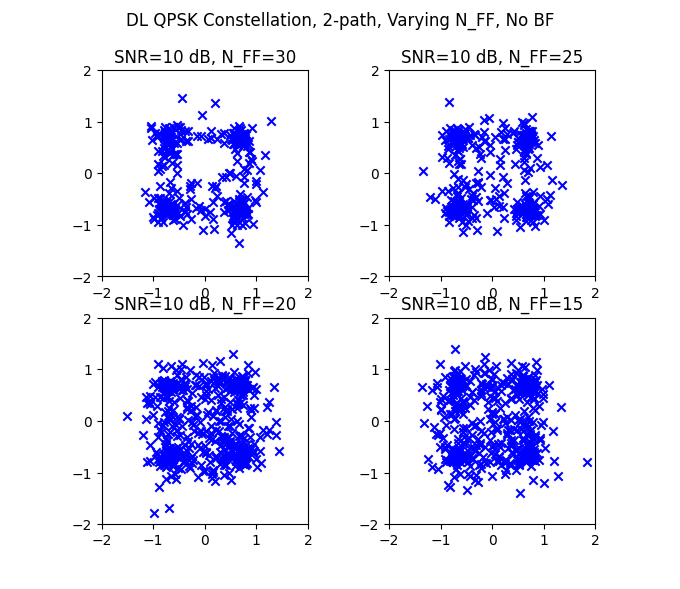
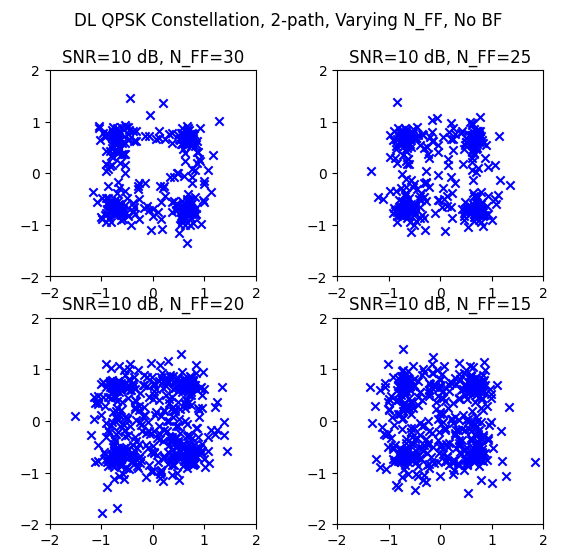
upda

diff --git a/test_files/test_dfe_ms_v9_dl.py b/test_files/test_dfe_ms_v9_dl.py
@@ -55,31 +55,6 @@ def pwr(x):
     p = np.sum(np.abs(x)**2)/len(x)
     return p
 
-def array_conditions(fc,B,n_rx,el_spacing):
-    c = 343
-    theta_p = 0
-    lambda_max = c/(fc - B/2)
-    lambda_min = c/(fc + B/2)
-
-    delmin = lambda_max/(el_spacing*n_rx)
-    delmax = lambda_min/el_spacing
-    theta_q_deg = np.linspace(-90,90)
-    theta_q = np.deg2rad(theta_q_deg)
-    theta_p = np.deg2rad(theta_p)
-
-    dataq = np.abs(np.sin(theta_p) - np.sin(theta_q))
-    delmindat = np.squeeze(np.where(dataq < delmin))
-    delmaxdat = np.squeeze(np.where(dataq > delmax))
-    try:
-        ang_res = (theta_q_deg[np.amax(delmindat)]-theta_q_deg[np.amin(delmindat)])/2
-    except:
-        ang_res = 0
-    try:
-        amb_res = (theta_q_deg[delmaxdat[int(len(delmaxdat)/2)]] - theta_q_deg[delmaxdat[int(len(delmaxdat)/2-1)]])/2
-    except:
-        amb_res = (theta_q_deg[-1]-theta_q_deg[0])/2
-    return ang_res, amb_res
-
 def transmit(v,snr,Fs,fs,fc,n_rx,d0,bf):
     reflection_list = np.asarray([1,0.5]) # reflection gains
     n_path = len(reflection_list)  
@@ -105,7 +80,6 @@ def transmit(v,snr,Fs,fs,fc,n_rx,d0,bf):
         for j, delay_j in enumerate(delay):
             r_multi[delay_j:delay_j+len(s), j] += reflection * s
     peaks_rx = 0
-    wk = np.ones(n_rx)
     deg_diff = 0
     if bf == 1:
         # now beamforming and weights
@@ -117,6 +91,7 @@ def transmit(v,snr,Fs,fs,fc,n_rx,d0,bf):
 
         index = np.where((freqs >= fc-R/2) & (freqs < fc+R/2))[0]
         N = len(index) #uhh???
+        wk_out = np.ones((n_rx,N))
         if N > 0:
             fk = freqs[index]       
             yk = r_fft[index, :]    # N*M
@@ -160,6 +135,8 @@ def transmit(v,snr,Fs,fs,fc,n_rx,d0,bf):
                     e_pu = np.zeros((n_path,1))
                     e_pu[i, 0] = 1
                     wk = Sk @ np.linalg.inv(Sk.conj().T @ Sk) @ e_pu #need to extract -> wk changes for k and for p and is size M. 
+                    if i == 0:
+                        wk_out[:,k] = wk
                     y_tilde[k, i] = wk.conj().T @ yk[k, :].T
 
             y_fft = np.zeros((len(r[:, 0]), n_path), complex)
@@ -219,14 +196,16 @@ def transmit(v,snr,Fs,fs,fc,n_rx,d0,bf):
             lenvm = len(v_multichannel[0,:])
     vk = np.copy(v_multichannel)
 
-    return vk, wk, deg_diff
+    return vk, wk_out, deg_diff
 
-def transmit_dl(v_dl,wk,snr,Fs,fs,fc,n_rx,d0):
+def transmit_dl(v_dl,wk_out,snr,Fs,fs,fc,n_rx,d0):
     vs = sg.resample_poly(v_dl,Fs,fs)
     s_dls = np.real(vs*np.exp(1j*2*np.pi*fc*np.arange(len(vs))/Fs))
     # apply wk here
-    s_dl = np.dot(np.reshape(wk,[-1,1]),np.reshape(np.fft.fft(s_dls),[1,-1]))
-    s_dl = np.fft.ifft(s_dl)
+    for k in range(len(wk_out[0,:])):
+        s_dl = np.dot(np.reshape(wk,[-1,1]),np.reshape(np.fft.fft(s_dls),[1,-1]))
+        s_dl = np.fft.ifft(s_dl)
+        # fix this
     reflection_list = np.asarray([1,0.5]) # reflection gains 
     x_rx_list = np.array([5,-5]) 
     y_rx_list = np.array([20,20])
